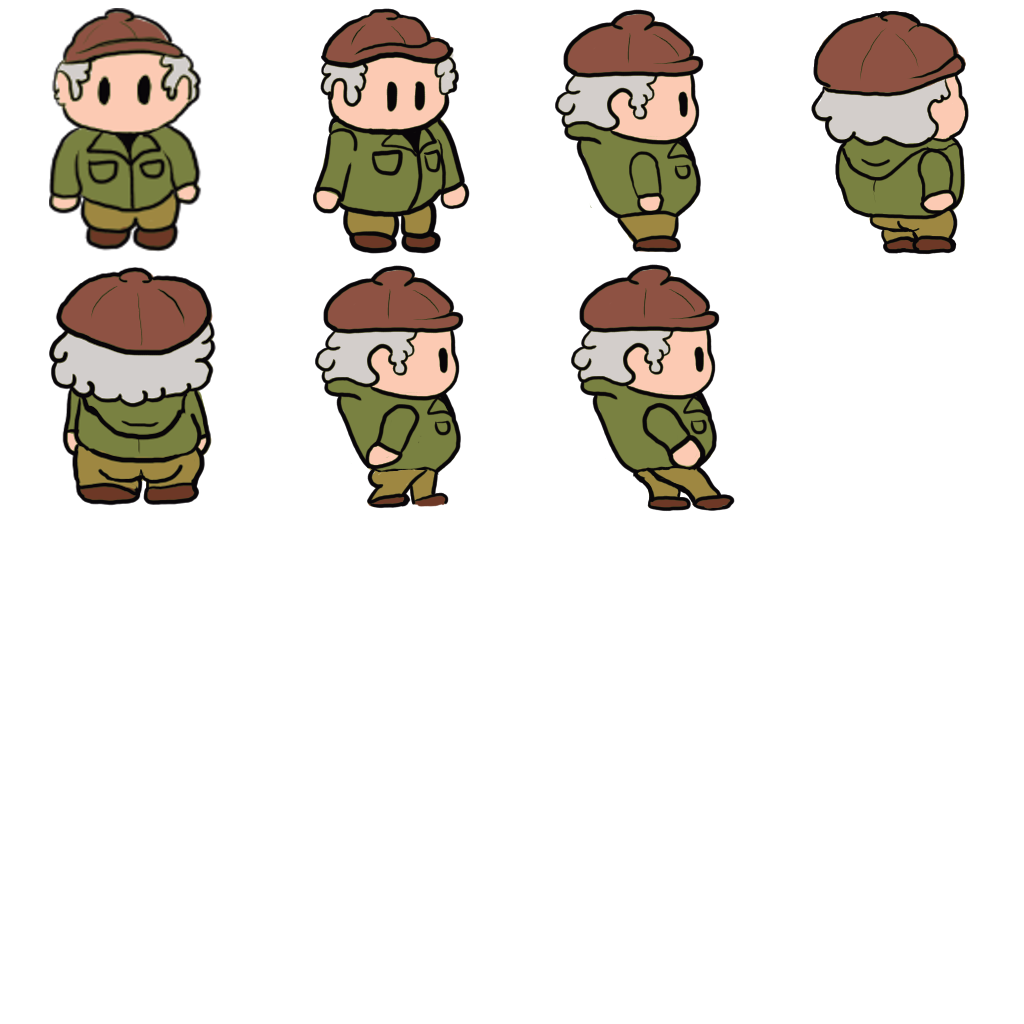
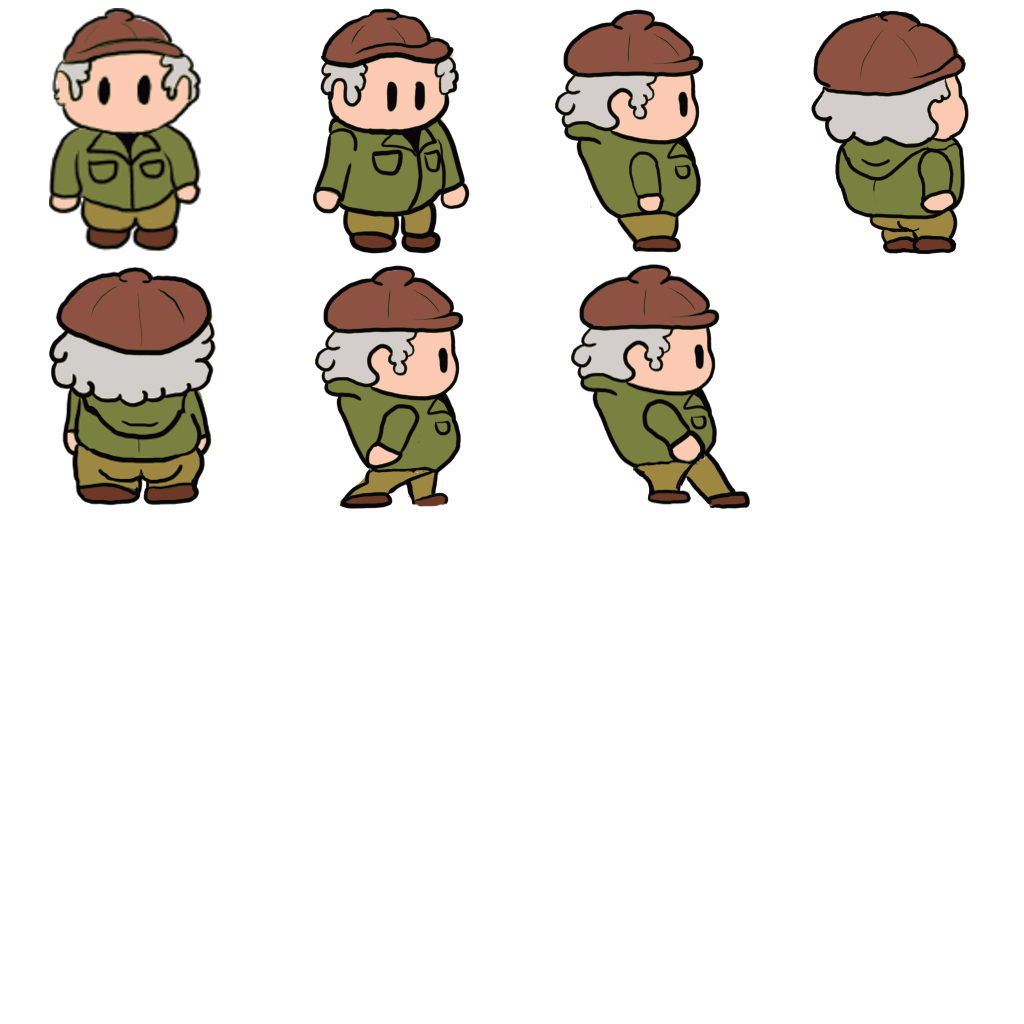
he stridin - animation begins

diff --git a/src/renderables/player.cpp b/src/renderables/player.cpp
@@ -50,8 +50,6 @@ void Player::init(GameState& gameState, glm::vec2 position, glm::vec2 sizePercen
 -----~~~~~=====<<<<<{_UPDATES_}>>>>>=====~~~~~-----
 */
 void Player::update() {
-    updateTextureCoords();
-
     // decceleration x
 	if (noX_ && !stoppedX_) {
         if (velocity_.x < 0.f) {
@@ -129,6 +127,18 @@ void Player::update() {
 	// update position based on velocity
 	position_ += glm::vec2(velocity_.x * gameState_->simulationTimeDelta, velocity_.y * gameState_->simulationTimeDelta);
 
+    // add position to animation counter
+    animationDistance_ += abs(velocity_.y * gameState_->simulationTimeDelta) + abs(velocity_.x * gameState_->simulationTimeDelta);
+    if (animationDistance_ > PLAYER_ANIMATION_RESET) {
+        if (textureStage_ == 3) {
+            textureStage_ = 0;
+        }
+        else {
+            textureStage_++;
+        }
+        animationDistance_ = 0.f;
+    }
+
     // edge of screen collision x
     if (position_.x <= -1.f || position_.x >= (1.f - (sizePercent_.x * 2) * gameState_->spriteScale)) { 
         // reset velocity and acceleration
@@ -162,6 +172,9 @@ void Player::update() {
     scale();
 
 	gameState_->needTriangleRemap = true;
+
+    // update determines the "stage" of animation based on amount moved 
+    updateTextureCoords();
 }
 
 void Player::updateTextureCoords() {
@@ -192,11 +205,33 @@ void Player::updateTextureCoords() {
         textureMirrored_ = true;
         break;
     case RIGHT:
-        texturePosition_ = {0.5f, 0.f};
+        switch (textureStage_) {
+        case 0:
+        case 2:
+            texturePosition_ = {0.5f, 0.f};
+            break;
+        case 1:
+            texturePosition_ = {0.25f, 0.25f};
+            break;
+        case 3:
+            texturePosition_ = {0.5f, 0.25f};
+            break;
+        }
         textureMirrored_ = false;
         break;
     case LEFT:
-        texturePosition_ = {0.5f, 0.f};
+        switch (textureStage_) {
+        case 0:
+        case 2:
+            texturePosition_ = {0.5f, 0.f};
+            break;
+        case 1:
+            texturePosition_ = {0.25f, 0.25f};
+            break;
+        case 3:
+            texturePosition_ = {0.5f, 0.25f};
+            break;
+        }
         textureMirrored_ = true;
         break;
     case STOPPED:

diff --git a/src/renderables/player.h b/src/renderables/player.h
@@ -40,6 +40,8 @@ private:
     glm::vec2 texturePosition_ = {0.f,0.f};
     bool textureMirrored_ = false;
     MovementState movementState_ = STOPPED;
+    int textureStage_ = 0;
+    float animationDistance_ = 0.f;
 
     glm::vec2 acceleration_ = { 0.f, 0.f };
 	glm::vec2 velocity_ = { 0.f, 0.f };

diff --git a/src/util.h b/src/util.h
@@ -38,6 +38,7 @@ const int MAX_LINES = 256;
 const float PLAYER_ACCELERATION = 2.f; 
 const float PLAYER_DECELERATION = 3.f;
 const float MAX_PLAYER_VELOCITY = 1.f;
+const float PLAYER_ANIMATION_RESET = 0.1f;
 
 
 // GAME VARIABLES
